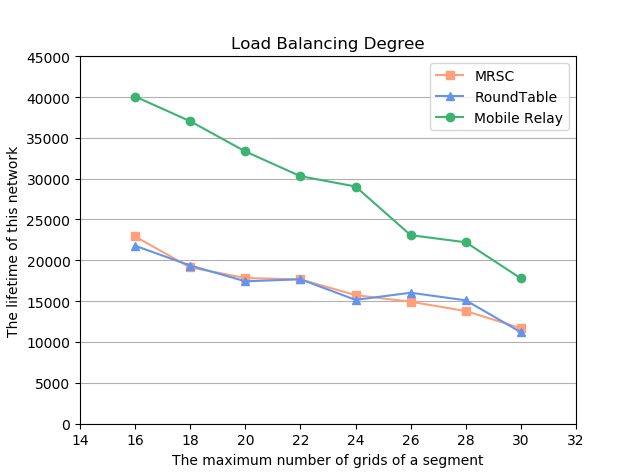
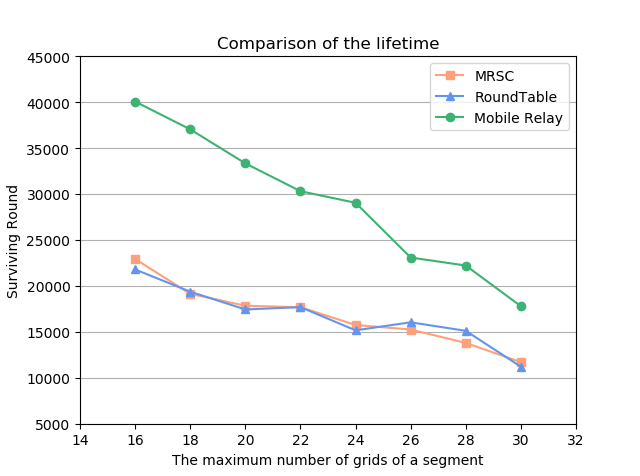
让我看看是谁下班了

diff --git a/plot.py b/plot.py
@@ -3,9 +3,28 @@ import matplotlib.pyplot as plt
 
 # 画图 #########################
 x = [16,18,20,22,24,26,28,30]
-# 区域数为15
-
 '''
+# 实验三
+# 区域数为20
+y11 = [4096,15584,16900,13651,14336,11664,33124,27225]
+y21 = [5184,23409,12100,17424,32400,22016,15427,26600]
+y31 = [3456,4374,6400,5270,6272,10816,12544,14450]
+y12 = [14300,7296,15580,16783,11664,16041,   0, 3600]
+y22 = [17744,6561,15288,15499,2414,7811,19979, 8200]
+y32 = [ 0,1333,     0,1721,3872,   0,  0,    0]
+
+# 实验四
+# 区域数为20
+y11 = [17000,13202,13333, 9623,12820,11904, 8928, 8888]
+y21 = [17857,12345,12500,11363,11904,11111,11834, 9538]
+y31 = [29411,26143,22222,20202,16666,17094,15875,13333]
+y12 = [10833,12232,11111,15700,11904,11523,13325,11251]
+y22 = [16666,15873,13333,14986,13986,13986,10989,12121]
+y32 = [25000,24777,20000,18181,19607,15384,15038,14815]
+'''
+'''
+# 实验三
+# 区域数为15
 y11 = [4096,5184,10000,3651,6220,8496,8902,12117]
 y21 = [6400,8100,7744,9787,4176,13670,7056,8600]
 y31 = [ 405, 729,1280,1301,1152,3506,4000, 4120]
@@ -18,9 +37,10 @@ y32 = [ 656, 546,  0,   0, 1200,   0,  0, 0]
 y11 = [25000,18020,15832,17623,15932,15325,15234,12117]
 y21 = [20833,20202,16666,15151,15151,19230,14285,10256]
 y31 = [38461,29629,40000,36363,27777,25641,19047,17777]
-y12 = [20833,20232,19829,17700,15532,14523,12325,11251]
+y12 = [20833,20232,19829,17700,15532,15151,12325,11251]
 y22 = [22727,18518,18181,20202,15151,12820,15904,12121]
 y32 = [41667,44445,26666,24242,30303,20512,25367,17777]
+
 y1 = []
 for i, y in enumerate(y11):
     y1.append((y+y12[i])/2)
@@ -85,12 +105,15 @@ plt.grid(b=True, axis='y')  # 只显示y轴网格线
 plt.legend(loc="upper right")  # lower   right
 plt.show()
 '''
-#实验三
-plt.title("Load Balancing Degree")
+# 实验三
 plt.xlabel("The maximum number of grids of a segment")
+# plt.title("Load Balancing Degree")
 # plt.ylabel("The variance of network traffic")
-# plt.axis([14, 32, 0, 10000])
-plt.ylabel("The lifetime of this network")
+# plt.axis
+
+# 实验四
+plt.title("Comparison of the lifetime")
+plt.ylabel("Surviving Round")
 plt.axis([14, 32, 5000, 45000])
 plt.grid(b=True, axis='y')  # 只显示y轴网格线
 plt.legend(loc="upper right")  # lower   right

diff --git a/mrsc.py b/mrsc.py
@@ -405,6 +405,7 @@ def load_balance(path_set, blocks):
             load[index] = load[index] + len(blocks[block_id])
     v = np.var(load)
     print('The Load of Each Road:',load,'\nVariance:', v)
+    return load
 
 
 def network_lifetime(load, E, R):
@@ -426,6 +427,7 @@ R = 50  # 节点通信半径
 [w, h] = [50, 50]  # 网格长宽
 
 Dp = 0.1      # 随机破坏节点比例
+E = 0.5
 # END OF PARAMETERS ########################
 
 
@@ -441,7 +443,7 @@ C_15 = to_obj(C_15)
 
 
 # 当区域数为15时 ###########################
-S_15, block_15 = create_nodes(C_15, 20, R, xm, ym)
+S_15, block_15 = create_nodes(C_20, 24, R, xm, ym)
 
 B_15, S_15 = get_border(S_15, R)  # 边界点
 B_15_sorted = sort_border(B_15, len(C_20))  # 按区域划分的二维边界点集合
@@ -454,7 +456,7 @@ for node in S_15_2016:
     if node['movable']:
         M_15.append(node)
 conn_path_2016, cost_2016, move_path_2016, DN = get_min_path_2016(B_15, M_15, R)
-block_2016 = [[] for i in range(len(C_15))]
+block_2016 = [[] for i in range(len(C_20))]
 for node in S_15:
     b_id = node['block']
     block_2016[b_id].append(node)

diff --git a/RoundTable.py b/RoundTable.py
@@ -453,10 +453,10 @@ C_15 = [(50, 100), (100, 400), (50, 700), (50, 900), (340, 340), (400, 660),
 C_15 = to_obj(C_15)
 
 # 当区域数为15时 ###########################
-S_15, block_15 = create_nodes(C_15, 18, R, xm, ym)
+S_15, block_15 = create_nodes(C_20, 24, R, xm, ym)
 
 B_15, S_15 = get_border(S_15, R)  # 边界点
-B_15_sorted = sort_border(B_15, len(C_15))  # 按区域划分的二维边界点集合
+B_15_sorted = sort_border(B_15, len(C_20))  # 按区域划分的二维边界点集合
 
 
 # 2018 圆桌协议相关
@@ -468,7 +468,7 @@ DN = desired_node_location_2018(conn_node_2018, R)
 d_cost_2018_2, move_path_2018 = get_replace_cost(DN, S_15, R)
 # cost_2018 = d_cost_2018_1 + d_cost_2018_2
 # print(d_cost_2018_1, d_cost_2018_2, cost_2018)
-block_2018 = [[] for i in range(len(C_15))]
+block_2018 = [[] for i in range(len(C_20))]
 for node in S_15:
     b_id = node['block']
     block_2018[b_id].append(node)

diff --git a/MobileRelay.py b/MobileRelay.py
@@ -680,7 +680,7 @@ C_15 = to_obj(C_15)
 
 # 当区域数为15时 ###########################
 # 建立一个块的字典数组，主要关注块的操作，但同时还有点的操作，可以把点的数据存在块的某个属性中
-S_15, block_1, block_15 = create_nodes(C_15, 30, R, xm, ym)
+S_15, block_1, block_15 = create_nodes(C_20, 30, R, xm, ym)
 S = S_15[:]
 print(len(S))
 
